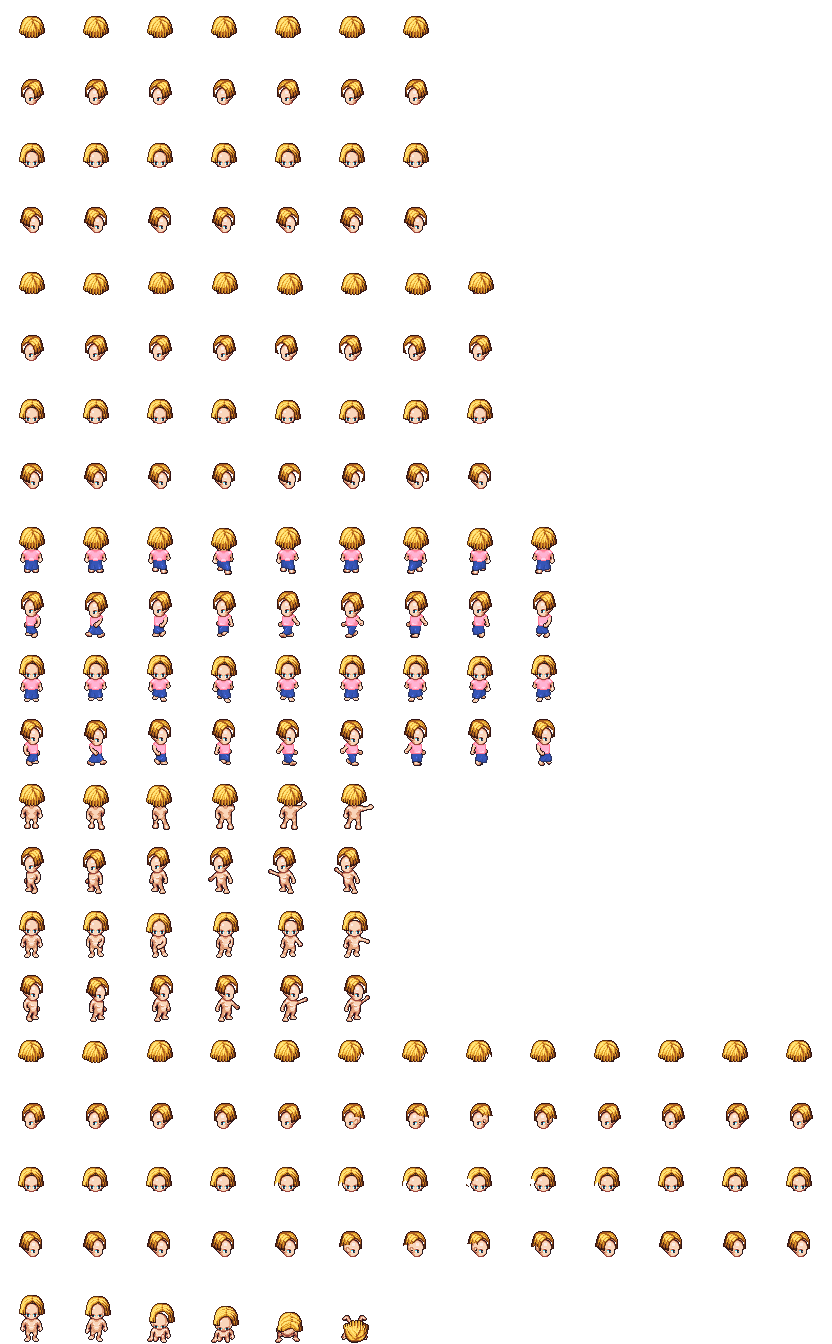
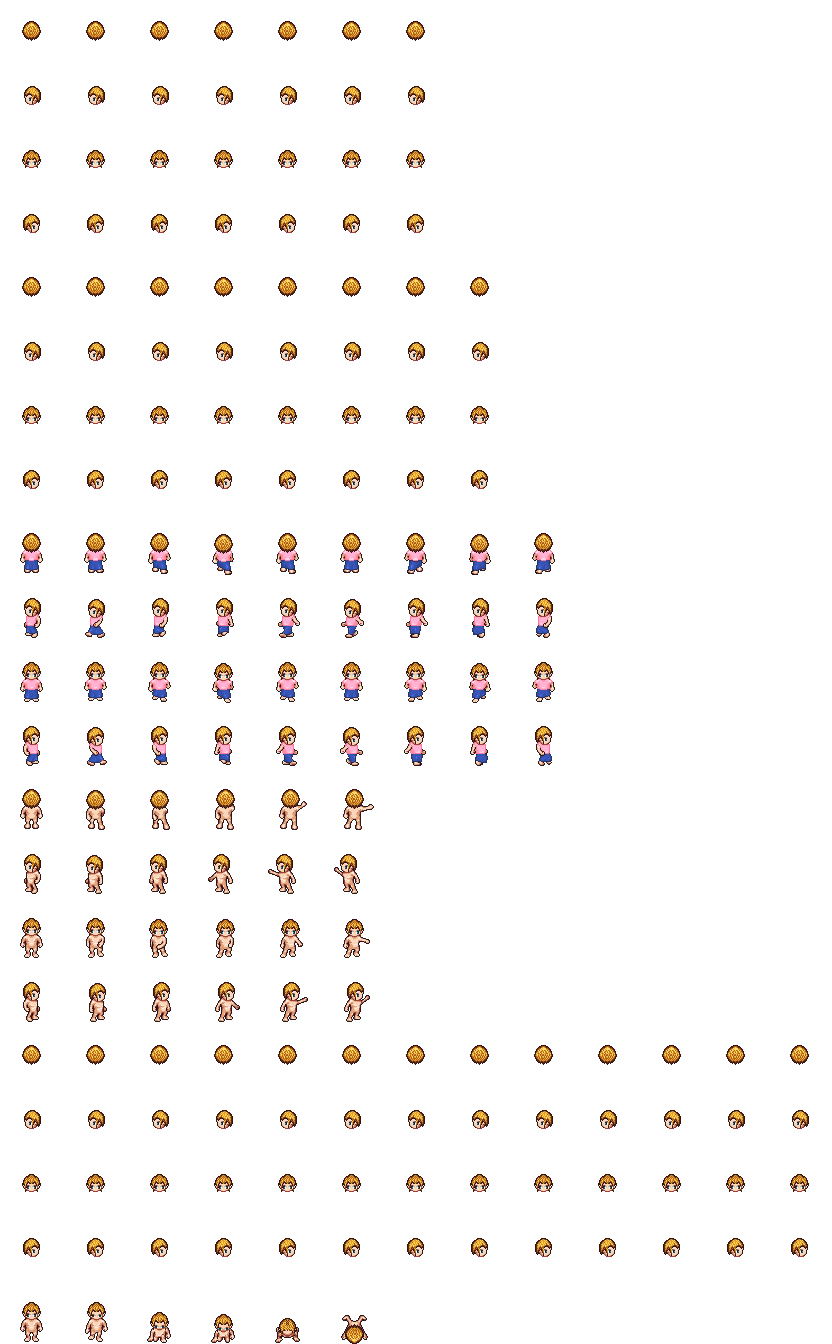
0.3.0 (ara): çocuk saçları, Joseph'in yeni görünüşü, renkli simge atlası (Twemoji) ve rütbe rozetleri
Claude-Session: https://claude.ai/code/session_01PKoNkRH8LKpqAgu5F1vHpP

diff --git a/src/ui/kit.ts b/src/ui/kit.ts
@@ -290,3 +290,27 @@ export function iconImage(scene: Phaser.Scene, x: number, y: number, icon: strin
   im.setScale(size / 34);
   return im;
 }
+
+/** Renkli arayüz simgesi (uiicons atlası, 72 px kaynak). Bilinmeyen anahtar → boş. */
+export function uiIcon(scene: Phaser.Scene, x: number, y: number, key: string, size = 24) {
+  const tex = scene.textures.get('uiicons');
+  const im = scene.add.image(x, y, 'uiicons', tex.has(key) ? key : 'check');
+  im.setScale(size / 72);
+  if (!tex.has(key)) im.setAlpha(0);
+  return im;
+}
+
+/** Lonca rütbe rozeti: harf rozeti + alt kademe işareti (−/+) küçük yazıyla. */
+export function rankBadge(scene: Phaser.Scene, x: number, y: number, subRank: number, size = 32): Phaser.GameObjects.Container {
+  const L = 'GFEDCBASX'[Math.min(8, Math.floor(subRank / 3))];
+  const sub = subRank - Math.min(8, Math.floor(subRank / 3)) * 3;
+  const c = scene.add.container(x, y);
+  c.add(uiIcon(scene, 0, 0, 'rank_' + L, size));
+  if (sub !== 1) {
+    const t = txt(scene, size * 0.36, size * 0.18, sub === 0 ? '−' : '+', { size: Math.max(11, Math.round(size * 0.42)), bold: true, color: '#ffffff', stroke: true });
+    t.setOrigin(0.5);
+    c.add(t);
+  }
+  c.setSize(size, size);
+  return c;
+}

diff --git a/src/data/manifest.ts b/src/data/manifest.ts
@@ -107,6 +107,8 @@ export const BUILDINGS = ['inn', 'guild', 'smithy', 'shop', 'healer', 'house_a',
 export const ATLASES: Record<string, { image: string; json: string }> = {
   props: { image: 'assets/gfx/props.png', json: 'assets/gfx/props.json' },
   icons: { image: 'assets/gfx/icons.png', json: 'assets/gfx/icons.json' },
+  /** Renkli arayüz simgeleri (Twemoji, CC-BY 4.0) ve lonca rütbe rozetleri — tools/build_uiicons.py */
+  uiicons: { image: 'assets/gfx/uiicons.png', json: 'assets/gfx/uiicons.json' },
 };
 
 export const JSONS: Record<string, string> = {

diff --git a/src/scenes/BootScene.ts b/src/scenes/BootScene.ts
@@ -34,6 +34,8 @@ export class BootScene extends Phaser.Scene {
     if (idx?.audio) for (const f of idx.audio) G.audioFiles.add(f);
     G.credits = this.cache.json.get('credits');
     this.makeTextures();
+    // Emoji tarzı simgeler küçültülerek çizilir: yumuşak filtre (piksel sanat değil)
+    this.textures.get('uiicons').setFilter(Phaser.Textures.FilterMode.LINEAR);
     makeCoinTextures(this);
     const boot = document.getElementById('boot');
     if (boot) {

diff --git a/tools/build_uiicons.py b/tools/build_uiicons.py
@@ -1,0 +1,220 @@
+#!/usr/bin/env python3
+"""
+Arayüz simge atlası (0.3.0): renkli, emoji tarzı simgeler + lonca rütbe rozetleri.
+
+- Simgeler: Twemoji (c) Twitter/X ve katkıda bulunanlar, CC-BY 4.0 — https://github.com/jdecked/twemoji
+  PNG olarak oyuna gömülür; sistem emoji yazı tipine güvenilmez (her cihazda aynı görünür).
+- Rütbe rozetleri (G → X): bu betikte elle çizilir; G sade tahta, ortalar bronz/gümüş,
+  A ve S değerli taşlı altın, X efsanevi ve parıltılı.
+
+Çıktı: assets/gfx/uiicons.png + uiicons.json (Phaser atlası, 72x72 kareler).
+Kullanım: python3 tools/build_uiicons.py   (Twemoji PNG'lerini tools/.cache/twemoji altına indirir)
+"""
+import os, json, math, urllib.request
+from PIL import Image, ImageDraw, ImageFont, ImageFilter
+
+ROOT = os.path.dirname(os.path.dirname(os.path.abspath(__file__)))
+CACHE = os.path.join(ROOT, 'tools', '.cache', 'twemoji')
+OUT = os.path.join(ROOT, 'assets', 'gfx')
+BASE = 'https://cdn.jsdelivr.net/gh/jdecked/twemoji@15.1.0/assets/72x72/'
+C = 72
+
+# anahtar → Twemoji kod noktası
+EMOJI = {
+    # temel değerler
+    'hp': '2764', 'mp': '1f4a7', 'stamina': '26a1', 'exp': '2728', 'level': '2b50', 'light': '1f31f',
+    'money': '1f4b0', 'coin': '1fa99', 'prestige': '1f451', 'points': '1f3c5', 'debt': '1f4c9',
+    # statlar
+    'STR': '1f4aa', 'VIT': '1f6e1', 'AGI': '1fab6', 'DEX': '1f3af', 'MNA': '1f52e', 'INT': '1f4d8', 'LUK': '1f340',
+    # kimlik
+    'identity': '1f464', 'race': '1f9ec', 'gender': '1f6bb', 'age': '23f3', 'title': '1f3c6', 'caste': '1f3db',
+    'guild': '1f3f0', 'rank': '1f396', 'skills': '1f4a0', 'equipment': '2694', 'inventory': '1f392', 'traits': '1f512',
+    'status': '2699', 'stats': '1f4ca', 'appraisal': '1f50d', 'eye': '1f441', 'history': '1f4ac', 'settings': '1f527',
+    'save': '1f4be', 'map': '1f5fa', 'quests': '1f4dc', 'main_quest': '2757', 'side_quest': '1f4cc', 'board_quest': '1f4cb',
+    'target': '1f4cd', 'reward': '1f381', 'risk': '26a0', 'check': '2705', 'cross': '274c', 'lock': '1f512', 'clock': '1f552',
+    'card': '1f3ab', 'group': '1f465', 'companion': '1f91d', 'dev': '1f6e0', 'fullscreen': '1f5a5', 'joystick': '1f579',
+    'sword': '1f5e1', 'bow': '1f3f9', 'fist': '1f44a', 'shield': '1f6e1', 'sleep': '1f4a4', 'home': '1f3e0', 'phone': '1f4f2',
+    # envanter sekmeleri
+    'inv_all': '1f4e6', 'inv_equip': '2694', 'inv_food': '1f356', 'inv_material': '1fab5', 'inv_other': '1f4ce', 'inv_cards': '1f3ab',
+    # harita işaretleri
+    'm_inn': '1f37a', 'm_guild': '2694', 'm_smithy': '2692', 'm_shop': '1f6cd', 'm_healer': '1f33f', 'm_bakery': '1f35e',
+    'm_tailor': '1f9f5', 'm_tannery': '1f97e', 'm_lodge': '1f3f9', 'm_farm': '1f33e', 'm_mill': '1f33e', 'm_guard': '1f482',
+    'm_checkpoint': '1f6a7', 'm_camp': '2620', 'm_wake': '2728', 'm_plaza': '26f2', 'm_training': '1f3cb', 'm_manor': '1f3db',
+    'm_oak': '1f333', 'm_pasture': '1f411', 'm_pond': '1f30a', 'm_house': '1f3e1', 'm_quest': '1f4cd', 'm_city': '1f3f0',
+    # servis koşturmacası
+    's_beer': '1f37a', 's_stew': '1f372', 's_bread': '1f35e', 's_plate': '1f37d', 's_angry': '1f620', 's_happy': '1f60a',
+}
+
+LETTERS = 'GFEDCBASX'
+
+
+def fetch(code):
+    os.makedirs(CACHE, exist_ok=True)
+    p = os.path.join(CACHE, code + '.png')
+    if not os.path.exists(p):
+        with urllib.request.urlopen(BASE + code + '.png') as r, open(p, 'wb') as f:
+            f.write(r.read())
+    return Image.open(p).convert('RGBA').resize((C, C), Image.LANCZOS)
+
+
+# ---------------------------------------------------------------------------- rozetler
+def font(size):
+    for f in ('Cinzel.ttf',):
+        p = os.path.join(ROOT, 'assets', 'fonts', f)
+        if os.path.exists(p):
+            ft = ImageFont.truetype(p, size)
+            try:
+                ft.set_variation_by_axes([800])
+            except Exception:
+                pass
+            return ft
+    return ImageFont.load_default()
+
+
+TIERS = {
+    #       gövde (açık, koyu), kenar, yazı, taş, süs seviyesi
+    'G': ((150, 108, 64), (92, 62, 34), (60, 40, 22), (246, 230, 200), None, 0),
+    'F': ((150, 152, 160), (84, 86, 96), (52, 54, 62), (250, 250, 255), None, 0),
+    'E': ((205, 127, 60), (120, 66, 28), (80, 44, 18), (255, 236, 210), None, 1),
+    'D': ((214, 140, 70), (128, 72, 30), (232, 196, 120), (255, 242, 220), (60, 160, 90), 1),
+    'C': ((214, 220, 230), (120, 128, 144), (80, 86, 100), (40, 48, 64), None, 2),
+    'B': ((226, 232, 242), (126, 136, 156), (200, 210, 230), (34, 42, 60), (70, 120, 230), 2),
+    'A': ((250, 214, 96), (176, 120, 28), (120, 78, 10), (90, 50, 0), (220, 40, 60), 3),
+    'S': ((255, 226, 120), (190, 130, 30), (255, 250, 210), (100, 50, 0), (60, 200, 220), 4),
+    'X': ((176, 120, 255), (70, 30, 150), (255, 220, 120), (255, 255, 255), (255, 80, 200), 5),
+}
+
+
+def shield_path(cx, cy, w, h):
+    pts = []
+    for i in range(0, 41):
+        t = i / 40
+        # üst kenar düz, yanlar aşağıda sivrilen kalkan
+        x = cx - w / 2 + w * t
+        pts.append((x, cy - h / 2 + 4 * math.sin(math.pi * t)))
+    for i in range(0, 41):
+        t = i / 40
+        ang = math.pi * t
+        x = cx + (w / 2) * math.cos(ang)
+        y = cy - h / 2 + h * 0.45 + (h * 0.55) * math.sin(ang) ** 1.4
+        pts.append((x, y))
+    return pts
+
+
+def badge(letter):
+    S = 4  # süper örnekleme
+    W = C * S
+    im = Image.new('RGBA', (W, W), (0, 0, 0, 0))
+    light, dark, edge, txtc, gem, orn = TIERS[letter]
+    d = ImageDraw.Draw(im)
+    cx, cy = W / 2, W / 2 + (7 if orn >= 3 else 2) * S
+    bw, bh = W * (0.68 if orn >= 3 else 0.74), W * (0.74 if orn >= 3 else 0.82)
+    # X: dış parıltı
+    if letter == 'X':
+        glow = Image.new('RGBA', (W, W), (0, 0, 0, 0))
+        gd = ImageDraw.Draw(glow)
+        for r in range(8):
+            gd.ellipse([W * 0.06 + r * 4, W * 0.06 + r * 4, W * 0.94 - r * 4, W * 0.94 - r * 4], outline=(255, 180, 255, 40), width=6)
+        glow = glow.filter(ImageFilter.GaussianBlur(6))
+        im.alpha_composite(glow)
+        d = ImageDraw.Draw(im)
+        # ışınlar
+        for k in range(12):
+            a = k * math.pi / 6
+            d.polygon([(cx, cy), (cx + math.cos(a - 0.08) * W * 0.5, cy + math.sin(a - 0.08) * W * 0.5), (cx + math.cos(a + 0.08) * W * 0.5, cy + math.sin(a + 0.08) * W * 0.5)], fill=(255, 230, 140, 70))
+    # S ve X: kanatlar / taç
+    if orn >= 4:
+        for sx in (-1, 1):
+            d.polygon([(cx + sx * bw * 0.42, cy - bh * 0.22), (cx + sx * W * 0.5, cy - bh * 0.42), (cx + sx * W * 0.47, cy - bh * 0.05), (cx + sx * bw * 0.44, cy + bh * 0.05)], fill=edge + (255,), outline=dark + (255,))
+    pts = shield_path(cx, cy, bw, bh)
+    d.polygon([(x + 3 * S, y + 4 * S) for x, y in pts], fill=(0, 0, 0, 110))
+    d.polygon(pts, fill=dark + (255,))
+    inner = shield_path(cx, cy, bw - 9 * S, bh - 9 * S)
+    # degrade gövde
+    grad = Image.new('RGBA', (W, W), (0, 0, 0, 0))
+    gdr = ImageDraw.Draw(grad)
+    for y in range(W):
+        t = y / W
+        col = tuple(int(light[i] * (1 - t * 0.55) + dark[i] * t * 0.55) for i in range(3))
+        gdr.line([(0, y), (W, y)], fill=col + (255,))
+    mask = Image.new('L', (W, W), 0)
+    ImageDraw.Draw(mask).polygon(inner, fill=255)
+    im.paste(grad, (0, 0), mask)
+    d = ImageDraw.Draw(im)
+    # malzeme dokusu
+    if letter == 'G':
+        for k in range(5):  # tahta damarı
+            y = cy - bh * 0.3 + k * bh * 0.14
+            d.line([(cx - bw * 0.3, y), (cx + bw * 0.3, y + 3 * S)], fill=(110, 76, 42, 140), width=S)
+    if letter == 'F':
+        for sx in (-1, 1):  # demir perçinler
+            for sy in (-0.28, 0.12):
+                d.ellipse([cx + sx * bw * 0.3 - 3 * S, cy + sy * bh - 3 * S, cx + sx * bw * 0.3 + 3 * S, cy + sy * bh + 3 * S], fill=(200, 202, 210, 255), outline=(60, 60, 70, 255))
+    # iç kenar parıltısı
+    d.line(inner[:41], fill=(255, 255, 255, 120), width=2 * S)
+    d.polygon(inner, outline=edge + (255,), width=2 * S if orn < 2 else 3 * S)
+    if orn >= 2:  # çift çerçeve
+        inner2 = shield_path(cx, cy, bw - 20 * S, bh - 20 * S)
+        d.polygon(inner2, outline=edge + (160,), width=S)
+    # taç (A ve üstü)
+    if orn >= 3:
+        ty = cy - bh / 2 - 2 * S
+        cw = bw * (0.42 if orn == 3 else 0.52)
+        crown = [(cx - cw / 2, ty + 8 * S), (cx - cw / 2, ty - 6 * S), (cx - cw / 4, ty + 2 * S), (cx, ty - 10 * S), (cx + cw / 4, ty + 2 * S), (cx + cw / 2, ty - 6 * S), (cx + cw / 2, ty + 8 * S)]
+        d.polygon(crown, fill=(255, 214, 80, 255) if letter != 'X' else (255, 230, 150, 255), outline=(140, 90, 10, 255))
+        for px in (cx - cw / 2, cx, cx + cw / 2):
+            d.ellipse([px - 3 * S, ty - (14 if px == cx else 10) * S, px + 3 * S, ty - (8 if px == cx else 4) * S], fill=gem + (255,) if gem else (255, 255, 255, 255))
+    # değerli taşlar
+    if gem:
+        n = 1 if orn <= 2 else 3
+        for k in range(n):
+            gx = cx + (k - (n - 1) / 2) * bw * 0.24
+            gy = cy + bh * 0.33
+            r = (5 if orn < 4 else 6) * S
+            d.polygon([(gx, gy - r), (gx + r, gy), (gx, gy + r), (gx - r, gy)], fill=gem + (255,), outline=(255, 255, 255, 200))
+            d.polygon([(gx - r * 0.4, gy - r * 0.3), (gx, gy - r * 0.8), (gx + r * 0.2, gy - r * 0.3)], fill=(255, 255, 255, 170))
+    # harf
+    f = font(int((30 if orn >= 3 else 34) * S))
+    tw = d.textbbox((0, 0), letter, font=f)
+    lx = cx - (tw[2] - tw[0]) / 2 - tw[0]
+    ly = cy - (tw[3] - tw[1]) / 2 - tw[1] - 4 * S
+    lum = 0.3 * txtc[0] + 0.59 * txtc[1] + 0.11 * txtc[2]
+    outline = (255, 248, 225, 200) if lum < 128 else (dark[0] // 2, dark[1] // 2, dark[2] // 2, 255)
+    d.text((lx + 2 * S, ly + 3 * S), letter, font=f, fill=(0, 0, 0, 120))
+    for ox, oy in ((-1, 0), (1, 0), (0, -1), (0, 1)):
+        d.text((lx + ox * S * 1.5, ly + oy * S * 1.5), letter, font=f, fill=outline)
+    d.text((lx, ly), letter, font=f, fill=txtc + (255,))
+    # X: yıldız pırıltıları
+    if letter == 'X':
+        for (sx, sy, r) in ((0.2, 0.22, 7), (0.82, 0.3, 5), (0.74, 0.8, 6), (0.24, 0.74, 4)):
+            px, py = W * sx, W * sy
+            r *= S
+            d.polygon([(px, py - r), (px + r * 0.25, py - r * 0.25), (px + r, py), (px + r * 0.25, py + r * 0.25), (px, py + r), (px - r * 0.25, py + r * 0.25), (px - r, py), (px - r * 0.25, py - r * 0.25)], fill=(255, 255, 255, 240))
+    return im.resize((C, C), Image.LANCZOS)
+
+
+def main():
+    keys = list(EMOJI.keys())
+    frames = {}
+    imgs = {}
+    for k, code in EMOJI.items():
+        imgs[k] = fetch(code)
+    for L in LETTERS:
+        imgs['rank_' + L] = badge(L)
+    names = list(imgs.keys())
+    cols = 16
+    rows = (len(names) + cols - 1) // cols
+    sheet = Image.new('RGBA', (cols * C, rows * C), (0, 0, 0, 0))
+    for i, k in enumerate(names):
+        x, y = (i % cols) * C, (i // cols) * C
+        sheet.alpha_composite(imgs[k], (x, y))
+        frames[k] = {'frame': {'x': x, 'y': y, 'w': C, 'h': C}, 'rotated': False, 'trimmed': False,
+                     'spriteSourceSize': {'x': 0, 'y': 0, 'w': C, 'h': C}, 'sourceSize': {'w': C, 'h': C}}
+    sheet.save(os.path.join(OUT, 'uiicons.png'), optimize=True)
+    json.dump({'frames': frames, 'meta': {'image': 'uiicons.png', 'size': {'w': sheet.width, 'h': sheet.height}, 'scale': 1}}, open(os.path.join(OUT, 'uiicons.json'), 'w'))
+    # önizleme (QA)
+    print('uiicons:', len(names), 'kare,', sheet.size)
+
+
+if __name__ == '__main__':
+    main()

diff --git a/tools/lpc_chars.py b/tools/lpc_chars.py
@@ -88,6 +88,18 @@ def layers_for(defname, variant, body):
     return out
 
 
+def check_parts(cid, body, parts):
+    """Çocuk gövdesine yalnızca çocuk gövdesini açıkça destekleyen katmanlar takılabilir
+    (yetişkin kafasına göre çizilmiş bir saç çocuğun başında havada durur)."""
+    if body != 'child':
+        return
+    for defname, _ in parts:
+        d = load_def(defname)
+        for k in d:
+            if k.startswith('layer_') and not d[k].get('custom_animation') and 'child' not in d[k]:
+                raise SystemExit(f'HATA: {cid}: {defname} çocuk gövdesini desteklemiyor (layer {k})')
+
+
 def compose(body, parts):
     layers = []
     for defname, variant in parts:
@@ -167,7 +179,7 @@ CHARS = {
                           ('hair_long', 'chestnut'), ('torso_clothes_blouse', 'rose'), ('legs_skirts_plain', 'walnut'),
                           ('feet_shoes', 'brown')]),
     'child': ('child', [('body', 'amber'), ('heads_human_child', 'amber'), ('eyes', 'brown'),
-                        ('hair_messy1', 'chestnut'), ('torso_clothes_child_shirt', 'blue'), ('legs_childpants', 'brown')]),
+                        ('hair_messed', 'brown'), ('torso_clothes_child_shirt', 'blue'), ('legs_childpants', 'brown')]),
     'drunk': ('male', [('body', 'light'), ('heads_human_male_plump', 'light'), ('eyes', 'blue'),
                        ('hair_unkempt', 'ginger'), ('beards_5oclock_shadow', 'ginger'), ('torso_clothes_longsleeve', 'maroon'),
                        ('legs_pants', 'brown'), ('feet_shoes', 'black')]),
@@ -245,9 +257,9 @@ CHARS = {
                            ('hair_messy2', 'light brown'), ('beards_beard', 'light brown'), ('torso_clothes_longsleeve', 'walnut'),
                            ('torso_aprons_apron', 'leather'), ('legs_pants', 'tan'), ('feet_boots', 'brown'), ('tool_smash', 'hammer')]),
     'child_girl': ('child', [('body', 'light'), ('heads_human_child', 'light'), ('eyes', 'blue'),
-                             ('hair_bob', 'blonde'), ('torso_clothes_child_shirt', 'pink'), ('legs_childskirts', 'blue')]),
+                             ('hair_parted_side_bangs', 'blonde'), ('torso_clothes_child_shirt', 'pink'), ('legs_childskirts', 'blue')]),
     'child_boy': ('child', [('body', 'taupe'), ('heads_human_child', 'taupe'), ('eyes', 'brown'),
-                            ('hair_messy1', 'black'), ('torso_clothes_child_shirt', 'red'), ('legs_childpants', 'brown')]),
+                            ('hair_messed', 'black'), ('torso_clothes_child_shirt', 'red'), ('legs_childpants', 'brown')]),
     'washer': ('female', [('body', 'amber'), ('heads_human_female', 'amber'), ('eyes', 'brown'),
                           ('hair_shoulderr', 'redhead'), ('torso_clothes_blouse', 'sky'), ('torso_aprons_apron', 'white'),
                           ('legs_skirts_plain', 'blue'), ('feet_shoes', 'brown')]),
@@ -280,8 +292,10 @@ CHARS = {
 }
 
 # Joseph: dinamik katmanlar (ekipmana göre)
-JOSEPH_BODY = ('male', [('body', 'light')])
-JOSEPH_HEAD = ('male', [('heads_human_male', 'light'), ('eyes', 'brown'), ('eyebrows_thick', 'black'), ('hair_unkempt', 'black')])
+# 0.3.0: kısa, dağınık siyah saç; koyu (LPC'deki en koyu: brown) gözler; esmerin hafif açığı ten (taupe).
+JOSEPH_SKIN = 'taupe'
+JOSEPH_BODY = ('male', [('body', JOSEPH_SKIN)])
+JOSEPH_HEAD = ('male', [('heads_human_male', JOSEPH_SKIN), ('eyes', 'brown'), ('eyebrows_thick', 'black'), ('hair_bedhead', 'black')])
 JOSEPH_ITEMS = {
     'a_shorts': [('legs_shorts_short', 'tan')],
     'a_shirt': [('torso_clothes_longsleeve', 'white')],
@@ -320,6 +334,8 @@ def main():
             for c in json.load(open(cp)):
                 credits_used[c['file']] = c
     for cid, (body, parts) in CHARS.items():
+        check_parts(cid, body, parts)
+    for cid, (body, parts) in CHARS.items():
         if only and cid not in only:
             continue
         print('karakter', cid)
@@ -327,7 +343,7 @@ def main():
         manifest['chars'][cid] = cid + '.png'
     jd = os.path.join(OUT, 'joseph')
     os.makedirs(jd, exist_ok=True)
-    if only:
+    if only and 'joseph' not in only:
         with open(os.path.join(OUT, 'chars.json'), 'w') as f:
             json.dump(manifest, f, indent=1, ensure_ascii=False)
         with open(os.path.join(ROOT, 'tools', 'credits_lpc_chars.json'), 'w') as f:

diff --git a/tools/build_credits.py b/tools/build_credits.py
@@ -19,6 +19,8 @@ packs = [
     {'title': '[LPC] Rat, Cat and Dog (fare)', 'authors': 'Reemax (Tuomo Untinen)', 'license': 'CC-BY 3.0 / CC-BY-SA 3.0 / GPL 3.0', 'url': 'https://opengameart.org/content/lpc-rat-cat-and-dog'},
     {'title': 'Bunny Rabbit LPC style / Reorganised LPC rabbit (tavşan)', 'authors': 'Stephen Challener (Redshrike); düzenleme: Evert', 'license': 'CC-BY 3.0 / CC-BY-SA 3.0 / OGA-BY 3.0', 'url': 'https://opengameart.org/node/114556'},
     {'title': '496 pixel art icons for medieval/fantasy RPG (ikonlar)', 'authors': 'Henrique Lazarini (7Soul1)', 'license': 'CC0', 'url': 'https://opengameart.org/content/496-pixel-art-icons-for-medievalfantasy-rpg'},
+    {'title': 'Twemoji (arayüz simgeleri: Appraisal, Status, envanter, görevler, harita işaretleri, Saygınlık)', 'authors': 'Twitter, Inc. ve diğer katkıda bulunanlar (jdecked/twemoji)', 'license': 'CC-BY 4.0', 'url': 'https://github.com/jdecked/twemoji', 'files': []},
+    {'title': 'Lonca rütbe rozetleri (G → X)', 'authors': 'Bu proje için tools/build_uiicons.py ile çizildi', 'license': 'Proje lisansı', 'url': 'https://github.com/FarFromTrue01/Reborn', 'files': []},
     {'title': 'Yazı tipleri: Cinzel, Alegreya, Alegreya Sans, Pixelify Sans', 'authors': 'Natanael Gama (Cinzel); Juan Pablo del Peral / Huerta Tipográfica (Alegreya, Alegreya Sans); Stefie Justprince (Pixelify Sans)', 'license': 'SIL Open Font License 1.1', 'url': 'https://fonts.google.com', 'files': []},
 ]
 

diff --git a/CREDITS.md b/CREDITS.md
@@ -95,6 +95,8 @@ Kaynak: https://github.com/sanderfrenken/Universal-LPC-Spritesheet-Character-Gen
   - https://opengameart.org/content/lpc-hair
   - https://github.com/ElizaWy/LPC/blob/main/Characters/Hair
   - https://opengameart.org/content/expanded-universal-lpc-spritesheet-idle-run-jump-lpc-revised-combat-and-assets
+- **hair/bedhead** — Manuel Riecke (MrBeast) — CC-BY-SA 3.0 / GPL 3.0
+  - https://opengameart.org/content/liberated-pixel-cup-lpc-base-assets-sprites-map-tiles
 - **hair/bob** — ElizaWy, bluecarrot16 — CC0
   - https://opengameart.org/content/lpc-hair
   - https://github.com/ElizaWy/LPC/blob/main/Characters/Hair
@@ -120,6 +122,8 @@ Kaynak: https://github.com/sanderfrenken/Universal-LPC-Spritesheet-Character-Gen
   - https://opengameart.org/content/lpc-hair
 - **hair/longhawk** — Manuel Riecke (MrBeast) — CC-BY-SA 3.0 / GPL 3.0
   - https://opengameart.org/content/liberated-pixel-cup-lpc-base-assets-sprites-map-tiles
+- **hair/messy** — Nila122 — OGA-BY 3.0 / CC-BY-SA 3.0 / GPL 3.0
+  - https://opengameart.org/content/lpc-clothes-for-children
 - **hair/messy1** — Manuel Riecke (MrBeast) — CC-BY-SA 3.0 / GPL 3.0
   - https://opengameart.org/content/liberated-pixel-cup-lpc-base-assets-sprites-map-tiles
 - **hair/messy2** — Manuel Riecke (MrBeast) — CC-BY-SA 3.0 / GPL 3.0
@@ -136,6 +140,9 @@ Kaynak: https://github.com/sanderfrenken/Universal-LPC-Spritesheet-Character-Gen
 - **hair/parted2** — Skorpio, bluecarrot16 — CC-BY-SA 3.0 / GPL 3.0
   - https://opengameart.org/content/lpc-skorpios-scifi-sprite-pack
   - https://opengameart.org/content/lpc-hair
+- **hair/parted_side_bangs** — JaidynReiman — OGA-BY 3.0+ / CC-BY 3.0+ / CC-BY-SA 3.0 / GPL 3.0
+  - https://opengameart.org/content/lpc-1-hairstyle-2-hair-extensions-3-previously-unofficially-released-hairstyles
+  - https://github.com/jrconway3/Universal-LPC-spritesheet/commit/46ddcf05a0e43e7aa6ffd47d350eef0eb529ac24
 - **hair/pigtails** — Radomir Dopieralski, bluecarrot16 — CC-BY-SA 3.0 / GPL 3.0
   - https://opengameart.org/content/one-more-lpc-alternate-character
   - https://opengameart.org/content/lpc-hair
@@ -372,6 +379,8 @@ Kaynak: https://github.com/sanderfrenken/Universal-LPC-Spritesheet-Character-Gen
 - **[LPC] Rat, Cat and Dog (fare)** — Reemax (Tuomo Untinen) — CC-BY 3.0 / CC-BY-SA 3.0 / GPL 3.0 — https://opengameart.org/content/lpc-rat-cat-and-dog
 - **Bunny Rabbit LPC style / Reorganised LPC rabbit (tavşan)** — Stephen Challener (Redshrike); düzenleme: Evert — CC-BY 3.0 / CC-BY-SA 3.0 / OGA-BY 3.0 — https://opengameart.org/node/114556
 - **496 pixel art icons for medieval/fantasy RPG (ikonlar)** — Henrique Lazarini (7Soul1) — CC0 — https://opengameart.org/content/496-pixel-art-icons-for-medievalfantasy-rpg
+- **Twemoji (arayüz simgeleri: Appraisal, Status, envanter, görevler, harita işaretleri, Saygınlık)** — Twitter, Inc. ve diğer katkıda bulunanlar (jdecked/twemoji) — CC-BY 4.0 — https://github.com/jdecked/twemoji
+- **Lonca rütbe rozetleri (G → X)** — Bu proje için tools/build_uiicons.py ile çizildi — Proje lisansı — https://github.com/FarFromTrue01/Reborn
 - **Yazı tipleri: Cinzel, Alegreya, Alegreya Sans, Pixelify Sans** — Natanael Gama (Cinzel); Juan Pablo del Peral / Huerta Tipográfica (Alegreya, Alegreya Sans); Stefie Justprince (Pixelify Sans) — SIL Open Font License 1.1 — https://fonts.google.com
 
 Ayrıntılı lisans/atıf dosyaları: `assets/licenses/` ve `assets/fonts/OFL-*.txt`.
